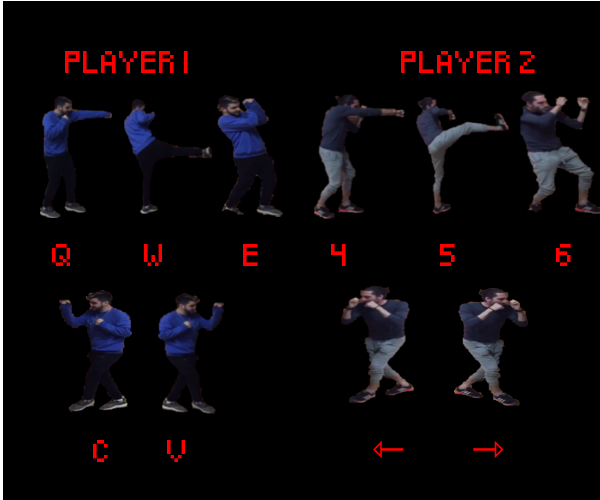
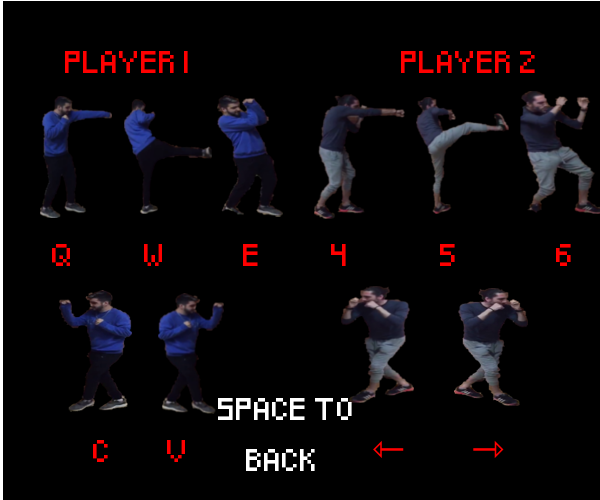
agrego opcion CONTROLES al menu

Changed region(s): [[0.36, 0.78, 0.6, 0.84], [0.39, 0.9, 0.54, 0.96]]

diff --git a/codigo/main.py b/codigo/main.py
@@ -5,6 +5,7 @@ from personajes import Licha
 from personajes import Pablo
 
 import seleccion
+
 from Fondo import Fondo
 # importo clases
 from LifeBar import LifeBar
@@ -12,7 +13,7 @@ from Peleador import Peleador
 from Time import Time
 from codigo.personajes import Enzo
 from menu import Menu
-
+import controles
 
 # def Pelea(a,b):
 def Pelea(a, b):
@@ -228,9 +229,8 @@ def selectorPersonaje(a,b):
 
     return (player1,player2)
 
-def controles():
-    imagenControles = pygame.image.load("imagenes/controles.png").convert()
-    screen.blit(fondo, (0, 0))
+def llamadorControl():
+    controles.menuControles()
 
 
 def main():
@@ -240,7 +240,7 @@ def main():
     salir = False
     opciones = [
         ("Jugar", selectPersonaje),
-        ("Controles",controles),
+        ("Controles",llamadorControl),
         ("Salir", salir_del_programa)
     ]
 

diff --git a/codigo/controles.py b/codigo/controles.py
@@ -1,0 +1,25 @@
+import pygame
+from pygame.locals import *
+
+def menuControles():
+
+
+    pygame.font.init()
+    screen = pygame.display.set_mode((600, 500))
+    imagenControles = pygame.image.load("imagenes/controles.png").convert()
+
+    salir=False
+    while not salir:
+        for e in pygame.event.get():
+            if e.type == pygame.QUIT:
+                salir = True
+        k = pygame.key.get_pressed()
+        if k[K_SPACE]:
+            salir=True
+
+        screen.blit(imagenControles, (0, 0))
+
+        pygame.display.flip()
+        pygame.time.delay(10)
+
+
